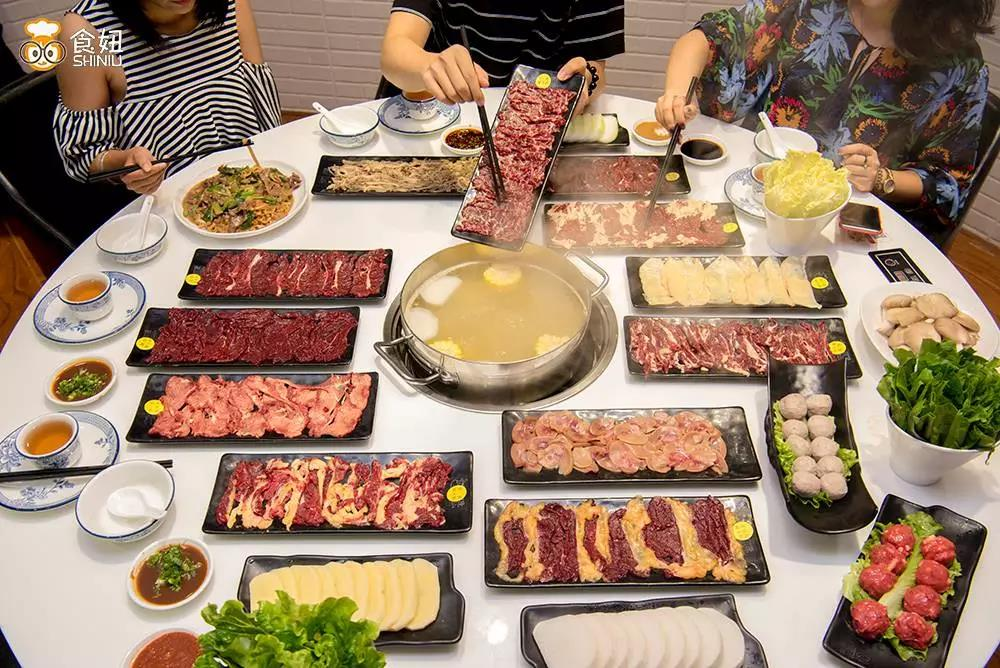
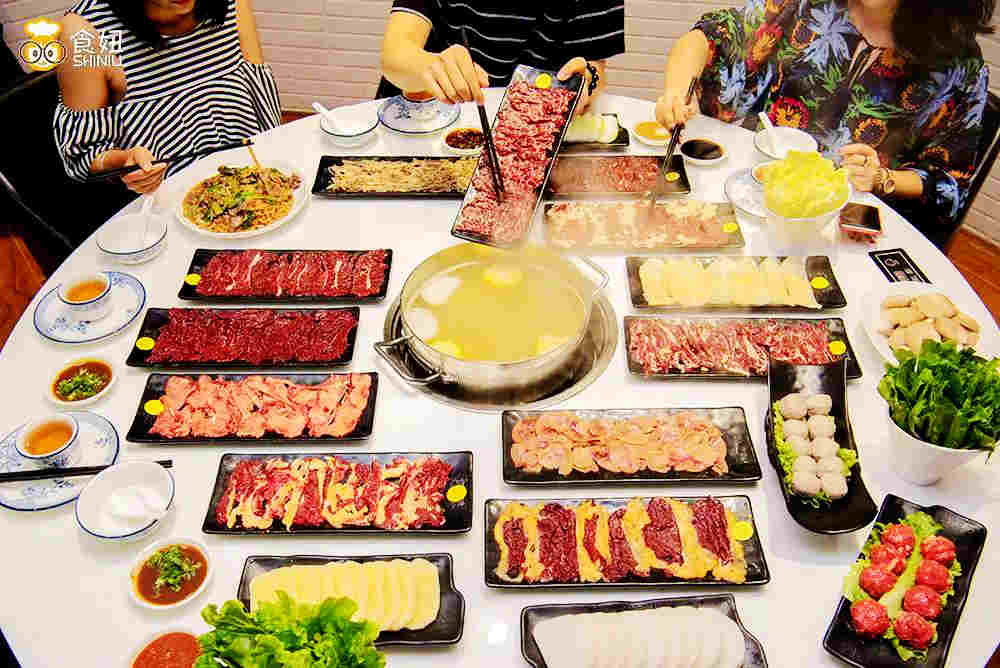
09146

diff --git a/hotpotnew/index.html b/hotpotnew/index.html
@@ -17,17 +17,6 @@
 
 
 
-    <!-- Facebook and Twitter integration -->
-    <meta property="og:title" content="" />
-    <meta property="og:image" content="" />
-    <meta property="og:url" content="" />
-    <meta property="og:site_name" content="" />
-    <meta property="og:description" content="" />
-    <meta name="twitter:title" content="" />
-    <meta name="twitter:image" content="" />
-    <meta name="twitter:url" content="" />
-    <meta name="twitter:card" content="" />
-
     <!-- Place favicon.ico and apple-touch-icon.png in the root directory -->
     <link rel="shortcut icon" href="favicon.ico">
 
@@ -244,7 +233,7 @@
                 <div class="container">
             <div class="row">
                 <div class="col-md-12 section-heading text-center">
-                    <h2 class="to-animate">哪座城市落户的“牛肉火锅”最多</h2>
+                    <h2 class="to-animate">哪里落户的“牛肉火锅”最多</h2>
                     <div class="row">
                         <div class="col-md-8 col-md-offset-2 subtext to-animate">
                             <h3>数据来自百度地图，时间截止2017年8月18日。</h3>
@@ -514,7 +503,7 @@
 </h2>
                             <div class="row">
                                 <div class="col-md-8 col-md-offset-2 subtext to-animate">
-                                    <h3> 从上述分析可以看出，深圳的牛肉火锅市场2014年前一直处于粗放生长阶段，2014年资本介入打造品牌后，如今已形成群雄割据、连锁品牌正在成长的时期。从成长到成熟，这一阶段所需要的时间并不会太长。</h3>
+                                    <h3> 从上述分析可以看出，深圳牛肉火锅市场2014年前一直处于粗放生长阶段，2014年资本介入打造品牌后，如今已形成群雄割据、连锁品牌正在成长的时期。从成长到成熟，这一阶段所需要的时间并不会太长。</h3>
                                 </div>
                             </div>
                         </div>
@@ -523,7 +512,7 @@
                         <div class="container">
                             <div class="row">
                                 <div class="col-md-8 col-md-offset-2 subtext to-animate">
-                                    <img class="img-shadow img-responsive" src="images/img_1.jpg" alt="yunci">
+                                    <img class="img-shadow img-responsive" src="images/img_2.jpg" alt="yunci">
                                 </div>
                                 <div class="col-md-8 col-md-offset-2 subtext to-animate">
                             
